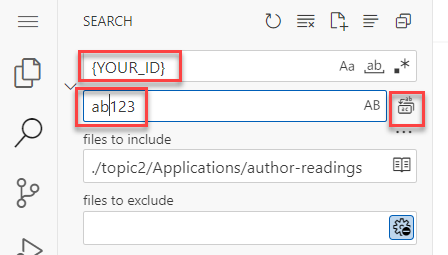
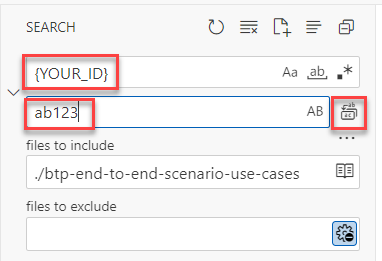
final clone change

diff --git a/topic2/part1/clone.md b/topic2/part1/clone.md
@@ -66,7 +66,7 @@ cd projects
 
 > As all the workshop participants work in one subaccount and one SAP S/4 HANA Cloud system the name of the created artifacts must be unique. To distinguish the objects for all participants in the workshop use the following naming convention: Replace **{YOUR_ID}** in every exercise with your initials plus a 3 digit number. For example instead of **MY_OBJECT_{YOUR_ID}**, use **MY_OBJECT_AB123**. 
 
-1. On the left side in the file explorer select *topic2* &rarr; *Applications* &rarr; *author-readings* folder and call the popup menu. Select **Find in Folder...** option.
+1. On the left side in the file explorer select **btp-end-to-end-scenario-use-cases** folder and call the popup menu. Select **Find in Folder...** option.
 
   ![Alt text](img/0080-find-in-folder.png) 
 
@@ -78,13 +78,7 @@ cd projects
 
   ![Alt text](img/0100-view-terminal.png) 
 
-4. In the terminal switch to the app folder with the command:
-
-  ```cli
-  cd topic2/Applications/author-readings/
-  ```
-
-5. Install the packages with the command:
+4. In the terminal install the packages with the command:
 
   ```cli
   npm i
